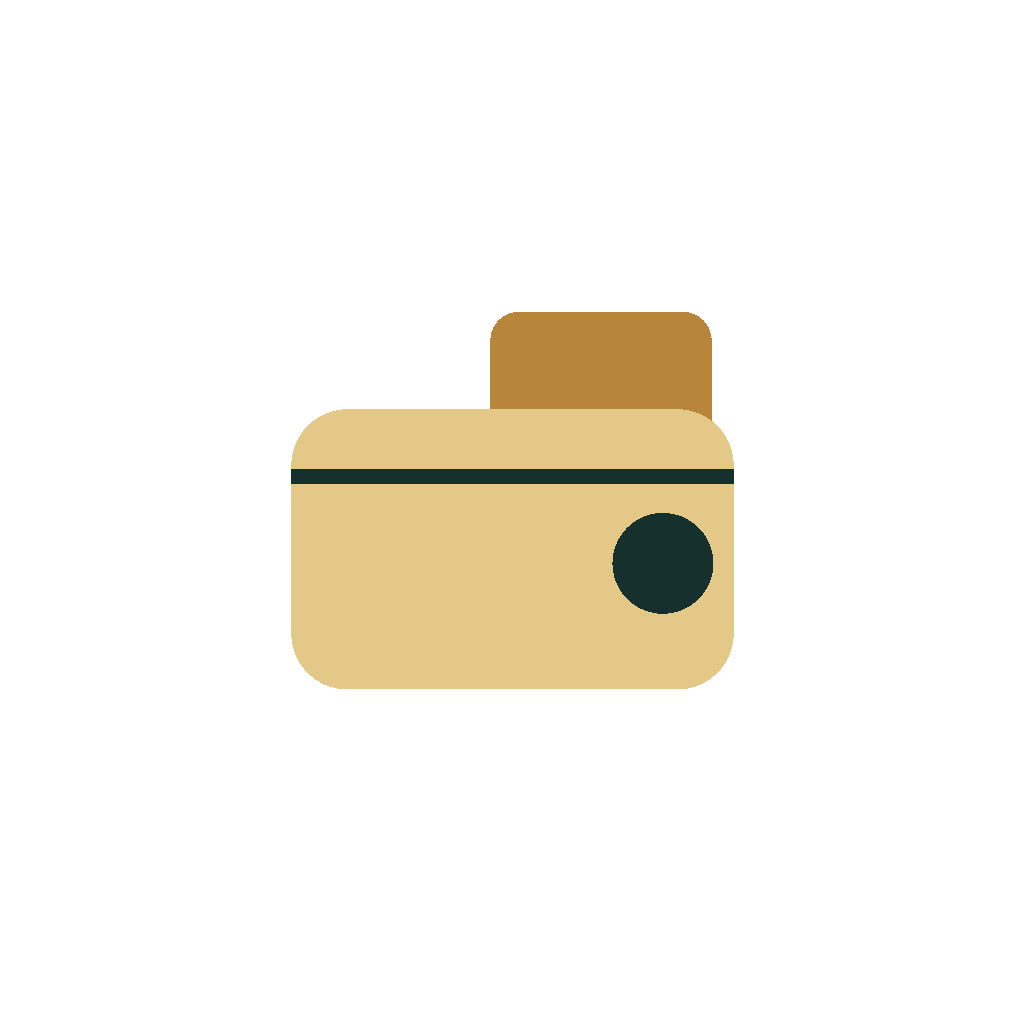
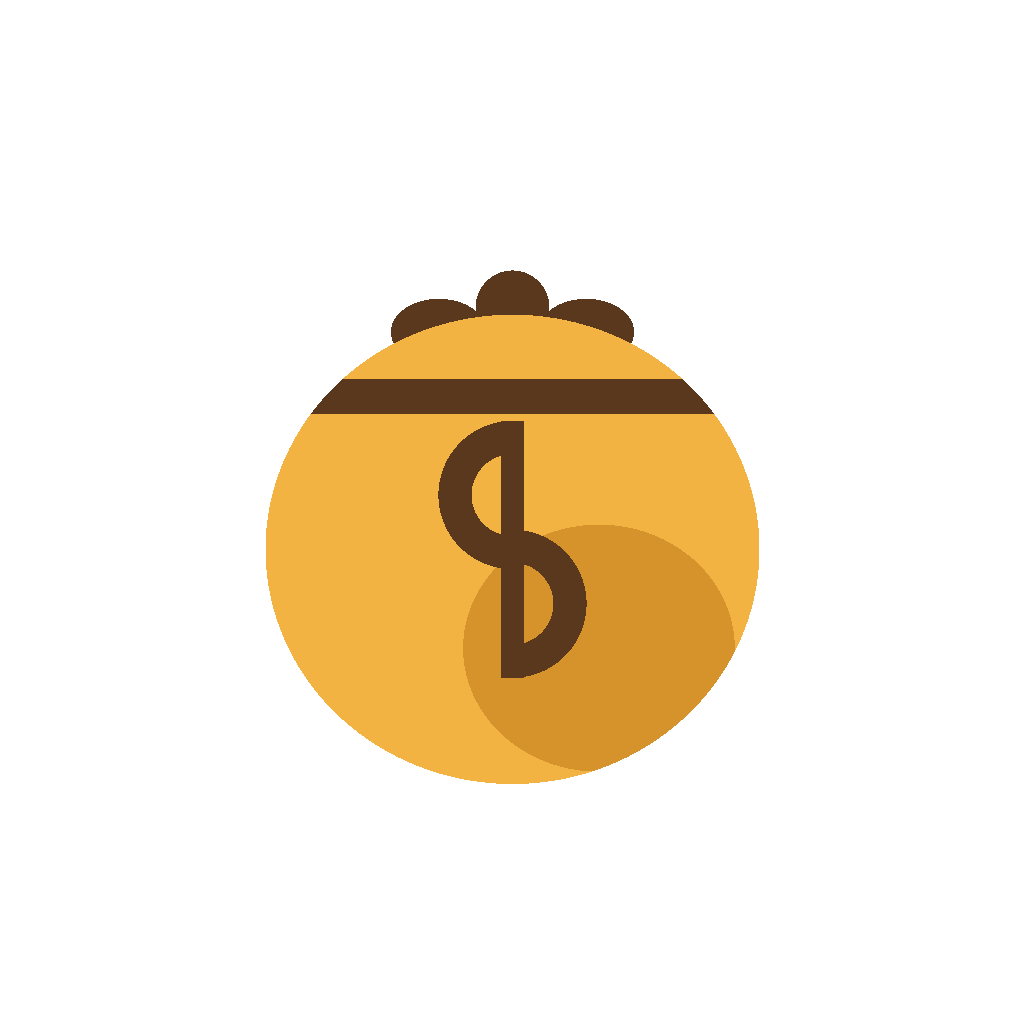
تغيير أيقونة التطبيق من المحفظة لكيس فلوس (💰) بألوان الإيموجي الكلاسيكي
المستخدم شاف إيموجي كيس الفلوس (💰) في دليل الشرح وطلب استخدام نفس الشكل
ده كأيقونة حقيقية للتطبيق — وبعد ما وضّح إنه يقصد الشكل الكلاسيكي بالظبط
(كيس أصفر ذهبي، شريطة بنية مربوطة فوق، وعلامة "$" بنية على الكيس، مش
الألوان المطفية اللي التطبيق بيستخدمها عادة).

scripts/gen-icon.js (مولّد PNG نقي بالبكسل، من غير أي مكتبة رسم خارجية —
نفس القيد اللي كان موجود قبل كده) اتعدّل:
- drawWallet() (محفظة + كارت بارز + مشبك) استُبدلت بـ drawMoneyBag() —
  كيس دائري، خط تجميع القماش قريب من أعلاه، شريطة/عقدة فوقه بطرفين رخوين
  جانبين، وعلامة "$" مرسومة بالبكسل (شريط رأسي + حلقتين نصف-دائريتين
  متقابلتين تقريبان حرف S)، مع تظليل خفيف أسفل يمين الكيس للعمق.
- لوان جديدة مخصصة (BAG_YELLOW/BAG_YELLOW_SHADE/BAG_BROWN) قريبة من
  إيموجي 💰 الحقيقي، بدل ألوان الهوية المعتادة (INK/GOLD) اللي كانت
  مستخدمة في تصميم المحفظة القديم.
- gen-web-icons.js (أيقونات PWA/آيفون) اتحدّث يستورد drawMoneyBag بدل
  drawWallet بنفس الطريقة.

اتولّدت كل المقاسات من جديد: resources/icon*.png (مصدر أندرويد) عبر
node scripts/gen-icon.js، وbaقي أيقونات mipmap-* الأندرويد عبر
npx capacitor-assets generate --android، وأيقونات www/icons/*.png (PWA
الآيفون) عبر node scripts/gen-web-icons.js.

تحقّق: فحص بصري للأيقونة على أحجام مختلفة (512px، 192px، ومقاس الويدجت/
لونشر الفعلي 432px) وللنسخة القابلة للقص (maskable) — واضحة ومقروءة في
كل الأحجام، والشكل قريب من إيموجي 💰 المرجعي.

Claude-Session: https://claude.ai/code/session_01UXxrcYmeQ2gUtiFYBgg3ft

Changed region(s): [[0.25, 0.25, 0.75, 0.7812]]

diff --git a/scripts/gen-icon.js b/scripts/gen-icon.js
@@ -1,12 +1,18 @@
 // Pure-Node PNG generator for the app icon — no native deps (sharp/canvas) required.
-// Draws a rounded dark-teal square with a centered gold wallet (matches the app's brand colors).
+// Draws a rounded dark-teal square with a centered gold money bag (matches the app's brand
+// colors, and the 💰 money-bag emoji already used for the favicon/app tagline elsewhere).
 const fs = require("fs");
 const path = require("path");
 const zlib = require("zlib");
 
-const INK = [0x16, 0x30, 0x2e];   // #16302E
-const GOLD = [0xb8, 0x86, 0x3b];  // #B8863B
+const INK = [0x16, 0x30, 0x2e];      // #16302E — app background/brand ink
+const GOLD = [0xb8, 0x86, 0x3b];     // #B8863B — kept for anything else that imports it
 const GOLD_SOFT = [0xe4, 0xc8, 0x88]; // #E4C888
+// Money-bag palette — closer to the classic 💰 emoji look (bright yellow pouch, brown tie/$)
+// than the app's own muted brand gold, since that's specifically the reference being matched.
+const BAG_YELLOW = [0xf2, 0xb3, 0x42];      // #F2B342 — main pouch fill
+const BAG_YELLOW_SHADE = [0xd6, 0x93, 0x2c]; // #D6932C — shaded side of the pouch
+const BAG_BROWN = [0x5a, 0x38, 0x1e];        // #5A381E — tie, bow, and $ mark
 
 function crc32(buf) {
   let c, crc = 0xffffffff;
@@ -51,6 +57,12 @@ function makePng(size, draw) {
 
 function dist(x, y, cx, cy) { return Math.hypot(x - cx, y - cy); }
 
+// Point-in-ellipse test.
+function inEllipse(x, y, cx, cy, rx, ry) {
+  const dx = (x - cx) / rx, dy = (y - cy) / ry;
+  return dx * dx + dy * dy <= 1;
+}
+
 // Point-in-rounded-rect test (rect given by top-left + size, uniform corner radius).
 function inRoundedRect(x, y, left, top, w, h, radius) {
   if (x < left || x > left + w || y < top || y > top + h) return false;
@@ -62,42 +74,55 @@ function inRoundedRect(x, y, left, top, w, h, radius) {
   return true;
 }
 
-// Wallet pictogram: a billfold body with a card peeking out above it and a round clasp/button
-// on its side — the standard flat-icon "wallet" silhouette (distinct from a plain card, which
-// is just a rectangle). `scale` shrinks the whole motif around the canvas center — used to keep
-// it inside the adaptive-icon safe zone for the foreground layer.
-function drawWallet(x, y, w, h, scale) {
+// Money-bag pictogram matching the classic "💰" emoji look directly: a round yellow pouch, a
+// small brown bow tied at the top, and a brown "$" on the front — rather than the app's own
+// muted brand gold, since that emoji reference is specifically what's being matched here.
+// `scale` shrinks the whole motif around the canvas center — used to keep it inside the
+// adaptive-icon safe zone for the foreground layer.
+function drawMoneyBag(x, y, w, h, scale) {
   const cx = w / 2, cy = h / 2;
 
-  // main billfold body
-  const bw = w * 0.60 * scale, bh = h * 0.38 * scale;
-  const bLeft = cx - bw / 2, bTop = cy - bh / 2 + h * 0.05 * scale;
-  const bRadius = bh * 0.20;
+  // main pouch — a near-circle sitting slightly below center
+  const bagCx = cx, bagCy = cy + h * 0.05 * scale;
+  const bagR = w * 0.335 * scale;
 
-  // a card peeking out the top, offset toward the right, mostly hidden behind the body
-  const cw = w * 0.30 * scale, ch = h * 0.24 * scale;
-  const cLeft = cx - cw * 0.10, cTop = bTop - ch * 0.55;
-  const cRadius = ch * 0.16;
-
-  // clasp/button on the body's right side
-  const claspR = bh * 0.18;
-  const claspCx = bLeft + bw * 0.84, claspCy = bTop + bh * 0.55;
-
-  if (inRoundedRect(x, y, bLeft, bTop, bw, bh, bRadius)) {
-    const d = dist(x, y, claspCx, claspCy);
-    if (d < claspR) return [...INK, 255];
-    if (d < claspR * 1.45) return [...GOLD_SOFT, 255];
-    // thin fold crease near the top of the body
-    if (Math.abs(y - (bTop + bh * 0.24)) < h * 0.010 * scale) return [...INK, 255];
-    return [...GOLD_SOFT, 255];
+  const inBag = inEllipse(x, y, bagCx, bagCy, bagR, bagR * 0.95);
+  if (!inBag) {
+    // bow: a small knot plus two floppy tie-ends, sitting just above the pouch
+    const knotCx = cx, knotCy = bagCy - bagR * 0.98, knotR = w * 0.05 * scale;
+    if (dist(x, y, knotCx, knotCy) < knotR) return [...BAG_BROWN, 255];
+    const tieRx = w * 0.065 * scale, tieRy = h * 0.045 * scale;
+    const tieCy = bagCy - bagR * 0.88;
+    if (inEllipse(x, y, cx - w * 0.10 * scale, tieCy, tieRx, tieRy)) return [...BAG_BROWN, 255];
+    if (inEllipse(x, y, cx + w * 0.10 * scale, tieCy, tieRx, tieRy)) return [...BAG_BROWN, 255];
+    return null;
   }
-  if (inRoundedRect(x, y, cLeft, cTop, cw, ch, cRadius)) {
-    return [...GOLD, 255]; // the peeking card, darker gold for contrast against the body
-  }
-  return null; // outside the wallet shape
+
+  // gather line near the top of the pouch, where the fabric is cinched shut under the bow —
+  // naturally follows the circle's own curve since it's only drawn where already inside inBag.
+  const gatherY = bagCy - bagR * 0.62;
+  if (Math.abs(y - gatherY) < h * 0.024 * scale) return [...BAG_BROWN, 255];
+
+  // "$" mark on the front: a vertical bar through two opposite-opening rings (an S built from
+  // two C-shapes) — the top ring opens right, the bottom ring opens left.
+  const dollarR = bagR * 0.30, dollarRingW = w * 0.045 * scale;
+  const armY = bagR * 0.22;
+  const topCy = bagCy - armY, botCy = bagCy + armY;
+  const dTop = dist(x, y, cx, topCy), dBot = dist(x, y, cx, botCy);
+  const inTopRing = dTop < dollarR && dTop > dollarR - dollarRingW && x <= cx;
+  const inBotRing = dBot < dollarR && dBot > dollarR - dollarRingW && x >= cx;
+  const barTop = topCy - dollarR, barBottom = botCy + dollarR;
+  const inBar = Math.abs(x - cx) < w * 0.016 * scale && y > barTop && y < barBottom;
+  if (inTopRing || inBotRing || inBar) return [...BAG_BROWN, 255];
+
+  // shaded lower-right of the pouch for a touch of roundness/depth
+  const shadeCx = bagCx + bagR * 0.35, shadeCy = bagCy + bagR * 0.4;
+  if (inEllipse(x, y, shadeCx, shadeCy, bagR * 0.55, bagR * 0.5)) return [...BAG_YELLOW_SHADE, 255];
+
+  return [...BAG_YELLOW, 255];
 }
 
-// square icon with rounded corners, dark teal bg, gold wallet centered on top
+// square icon with rounded corners, dark teal bg, gold money bag centered on top
 function drawIcon(x, y, w, h) {
   const radius = w * 0.22; // corner radius
   const inCorner =
@@ -107,15 +132,15 @@ function drawIcon(x, y, w, h) {
     (x > w - radius && y > h - radius && dist(x, y, w - radius, h - radius) > radius);
   if (inCorner) return [0, 0, 0, 0];
 
-  const wallet = drawWallet(x, y, w, h, 1);
-  if (wallet) return wallet;
+  const bag = drawMoneyBag(x, y, w, h, 1);
+  if (bag) return bag;
   return [...INK, 255];
 }
 
-// adaptive-icon foreground: transparent bg, wallet only, slightly smaller (safe zone)
+// adaptive-icon foreground: transparent bg, money bag only, slightly smaller (safe zone)
 function drawForeground(x, y, w, h) {
-  const wallet = drawWallet(x, y, w, h, 0.72);
-  if (wallet) return wallet;
+  const bag = drawMoneyBag(x, y, w, h, 0.72);
+  if (bag) return bag;
   return [0, 0, 0, 0];
 }
 
@@ -124,9 +149,9 @@ function drawBackground(x, y, w, h) {
 }
 
 // Exported so other generator scripts (e.g. gen-web-icons.js, for the PWA/iOS home-screen
-// icons) can reuse the exact same drawing logic instead of duplicating the wallet motif —
+// icons) can reuse the exact same drawing logic instead of duplicating the money-bag motif —
 // running this file directly still regenerates the Capacitor/Android icon set as before.
-module.exports = { makePng, drawIcon, drawForeground, drawBackground, drawWallet, INK, GOLD, GOLD_SOFT };
+module.exports = { makePng, drawIcon, drawForeground, drawBackground, drawMoneyBag, INK, GOLD, GOLD_SOFT };
 
 if (require.main === module) {
   const outDir = process.argv[2] || "build/icons";

diff --git a/scripts/gen-web-icons.js b/scripts/gen-web-icons.js
@@ -1,27 +1,27 @@
-// Generates the PWA/iOS home-screen icon set into www/icons/, reusing the exact wallet drawing
-// logic from gen-icon.js (same colors/motif as the Android app icon) instead of the mismatched
-// emoji-in-SVG placeholder that was in <head> before — iOS Safari doesn't support SVG
+// Generates the PWA/iOS home-screen icon set into www/icons/, reusing the exact money-bag
+// drawing logic from gen-icon.js (same colors/motif as the Android app icon) instead of the
+// mismatched emoji-in-SVG placeholder that was in <head> before — iOS Safari doesn't support SVG
 // apple-touch-icons at all (silently falls back to a screenshot thumbnail), so that icon never
 // actually showed up correctly on an iPhone home screen.
 const fs = require("fs");
 const path = require("path");
-const { makePng, drawIcon, drawBackground, drawWallet, INK } = require("./gen-icon.js");
+const { makePng, drawIcon, drawBackground, drawMoneyBag, INK } = require("./gen-icon.js");
 
 // apple-touch-icon must be a plain opaque square — iOS applies its own rounded-corner mask, so a
 // source icon with pre-rounded transparent corners (like drawIcon()) would show those corners as
 // black/broken instead of blending in. This is drawIcon() minus the corner-transparency clip.
 function drawAppleTouchIcon(x, y, w, h) {
-  const wallet = drawWallet(x, y, w, h, 1);
-  if (wallet) return wallet;
+  const bag = drawMoneyBag(x, y, w, h, 1);
+  if (bag) return bag;
   return [...INK, 255];
 }
 
-// Android/Chrome "maskable" icon: full-bleed background with the wallet kept inside the safe
+// Android/Chrome "maskable" icon: full-bleed background with the money bag kept inside the safe
 // zone (same 0.72 scale used for the Capacitor adaptive-icon foreground) so it isn't clipped
 // when the OS applies a circle/squircle/rounded-square mask over it.
 function drawMaskable(x, y, w, h) {
-  const wallet = drawWallet(x, y, w, h, 0.72);
-  if (wallet) return wallet;
+  const bag = drawMoneyBag(x, y, w, h, 0.72);
+  if (bag) return bag;
   return [...INK, 255];
 }
 

diff --git a/README.md b/README.md
@@ -15,6 +15,15 @@
 > (App ID) عملية أكبر وأخطر بكتير (بتكسر التوقيع، تسجيل الدخول بجوجل،
 > والتثبيتات الحالية على أجهزة المستخدمين) فمتعملتش دلوقتي.
 
+> **أيقونة التطبيق اتغيّرت كمان** من محفظة (wallet) لكيس فلوس مربوط بشريطة
+> وعليه علامة "$" (💰) — نفس شكل إيموجي كيس الفلوس الكلاسيكي (أصفر ذهبي
+> وبني)، مش ألوان هوية التطبيق العادية (كحلي/ذهبي مطفي)، عشان ده بالظبط
+> الشكل المطلوب. `scripts/gen-icon.js` (يرسم البكسلات مباشرة، من غير أي
+> مكتبة رسم خارجية) هو مصدر الأيقونة، وباقي المقاسات (أندرويد + PWA)
+> بتتولّد منه عبر `scripts/gen-web-icons.js` و`@capacitor/assets` — شوف
+> "📦 بناء الـ APK" تحت لإزاي تعيد توليدها لو
+> غيّرت التصميم تاني.
+
 ---
 
 ## 🆕 إيه اللي اتغيّر عن نسخة الويب
